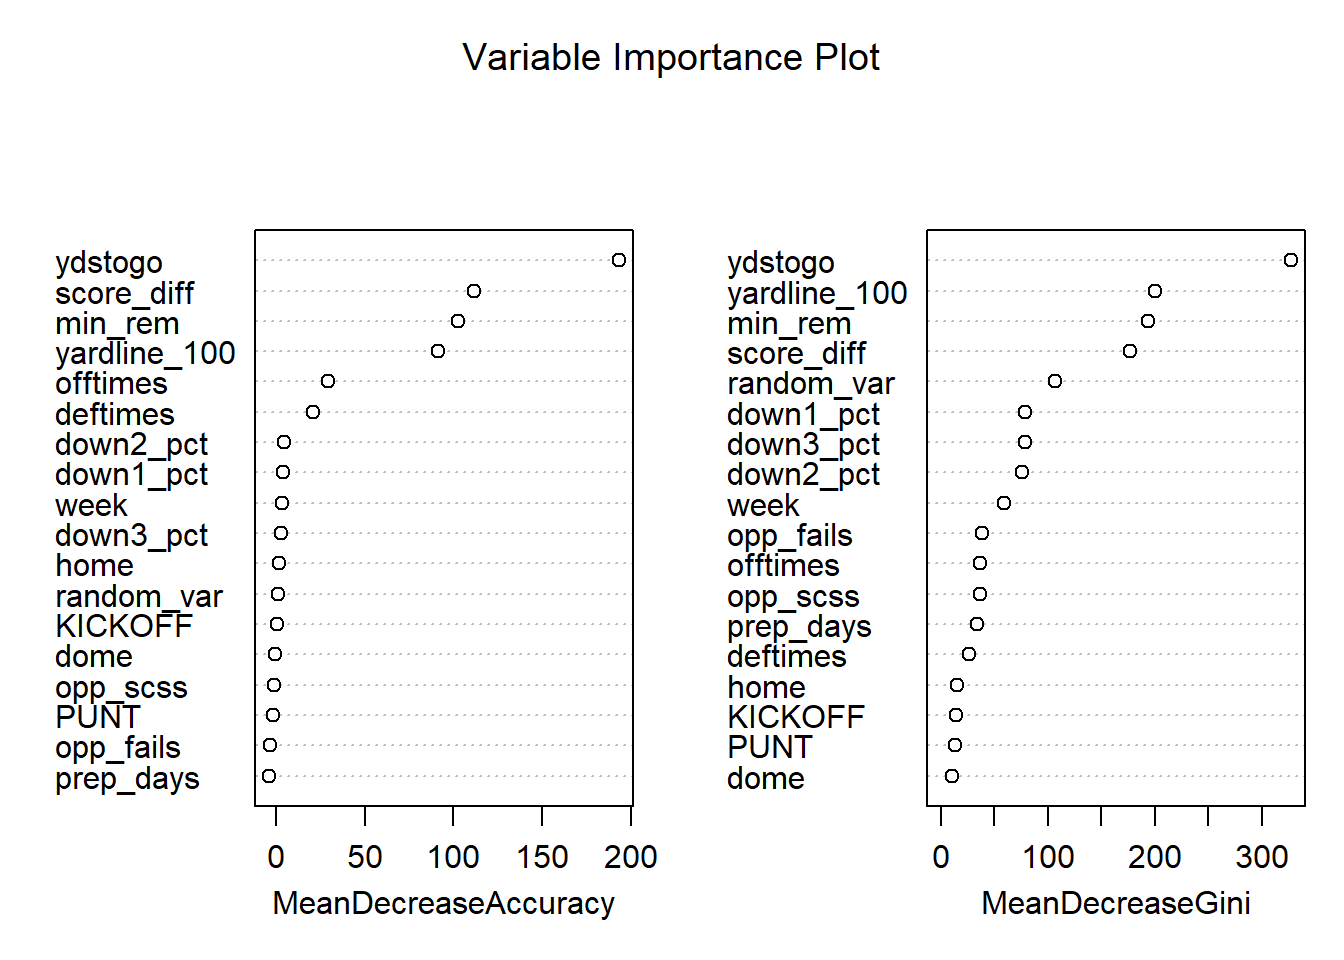
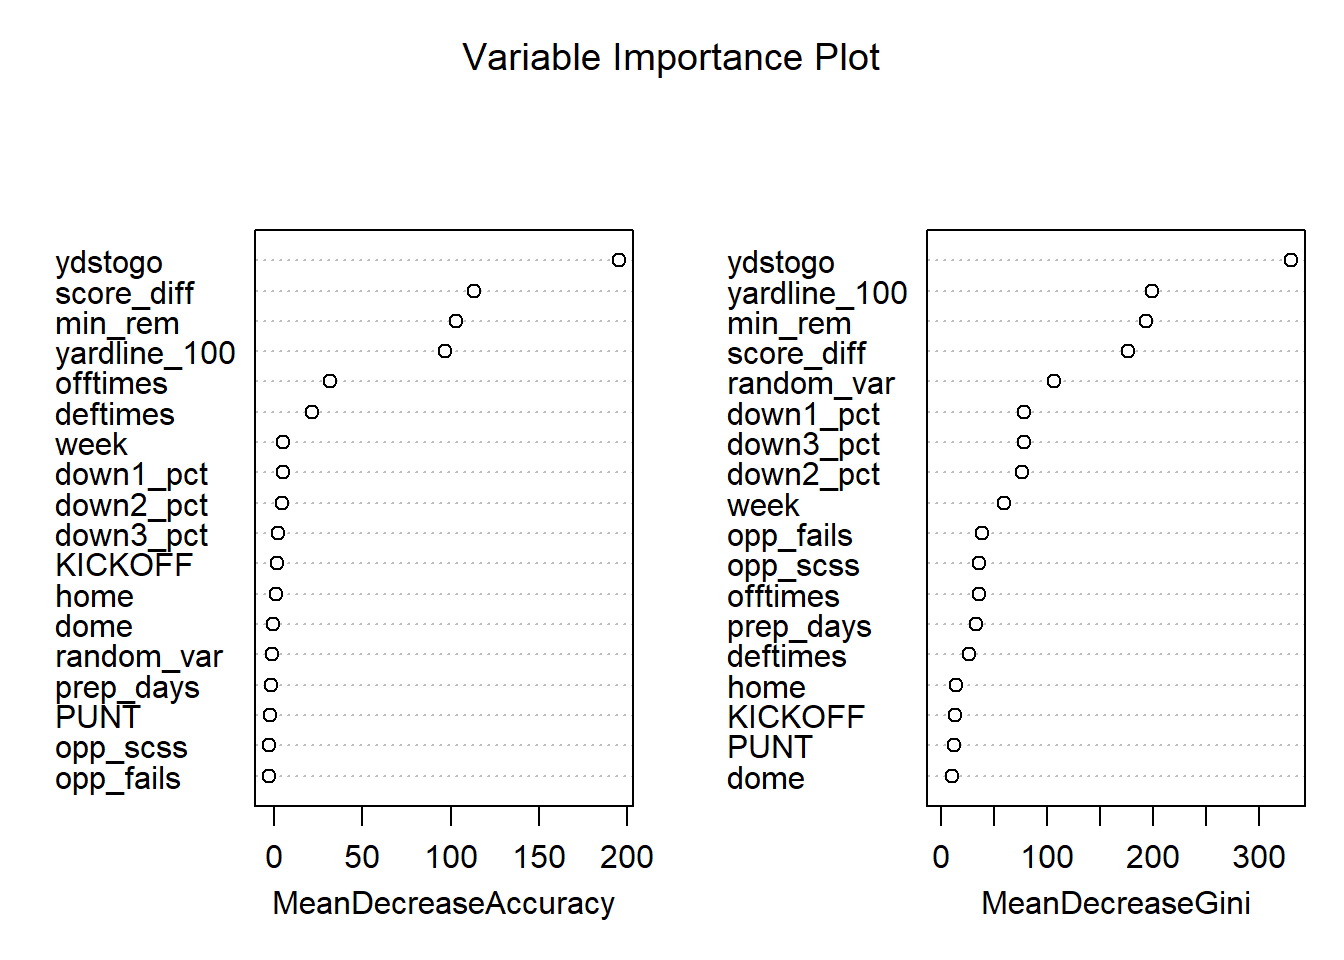
fixed citations

diff --git a/docs/index.html b/docs/index.html
@@ -357,24 +357,24 @@ popularity of their team. Teams are willing to invest time and money
 into finding different strategies that assist their organization. One
 such area that has received much attention is the idea of maximizing the
 expected win percentages of teams. This leads teams to look to
-strategies that may be outside of the culture norm.</p>
+strategies that may be outside of the cultural norm.</p>
 <p>For many years in the NFL there seemed to be a consistent standard
 that on 4th down your team will kick a field goal or punt the ball for
 better field position. The only exception being the dying moments in a
 game when teams are desperate. However data display tools have let us
 see an increase in the overall attempt percentage of teams on 4th down
-(Raymond, 2024). This is signalling a change in culture</p>
+(Raymond, 2024). This is signalling a change in culture.</p>
 <p>In the NFL there has been a increasing feeling that teams need to be
 more aggressive on 4th downs. We have seen teams adopt this strategy.
 Most famously is the Detroit lion’s mentality since the arrival of their
 current head coach Dan Campbell. The lions adopted a aggressive strategy
-to match their aggressive “biting off knee caps” mentality. While the
-lions have seen success for the first time in years they have also been
-criticized for their aggressive play calling. This was seen in the
-2023-24 playoff divisional round game in which the lions failed a 4th
-down attempt that was painted as unnecessary (Sporting News, 2024).
-After this failed 4th down attempt there seemed to be a shift in
-momentum and the lions lost the game.</p>
+to match their aggressive “biting off knee caps” mentality (Birkett,
+2023). While the lions have seen success for the first time in years
+they have also been criticized for their aggressive play calling. This
+was seen in the 2023-24 playoff divisional round game in which the lions
+failed a 4th down attempt that was painted as unnecessary (Sporting
+News, 2024). After this failed 4th down attempt there seemed to be a
+shift in momentum and the lions lost the game.</p>
 </div>
 <div id="research-problem" class="section level2">
 <h2>Research Problem</h2>
@@ -382,11 +382,11 @@ momentum and the lions lost the game.</p>
 right call?”. This question seems to be getting answered as “yes” by the
 current literature on this topic. However, we need to know if different
 teams should go for it or not go for it depending on their situation and
-team build. For example it could be argued that the lions should have
+team build. For example, it could be argued that the lions should have
 attempted the crucial 4th down in the 2023-24 playoff divisional round
-game. However if the panthers (which were a significantly worse team)
-where is that situation it could be argued that they should not have
-been as aggressive. This is because the panthers could have had a worse
+game. However, if the panthers (which were a significantly worse team)
+were is that situation it could be argued that they should not have been
+as aggressive. This is because the panthers could have had a worse
 chance of being able to convert on 4th down.</p>
 <p>On top of this we must be weary of any recommendation that is given
 to a head coach. The truth is that we are not on the field, in the
@@ -397,12 +397,12 @@ idea of being more practical and clear to coaches.</p>
 <div id="research-questions" class="section level2">
 <h2>Research Questions</h2>
 <p>This leads us to have a need to answer some key questions about 4th
-downs in the NFL. First is are there certain key predictable signals
-that can be used to decide if a given team should attempt a 4th down.
+downs in the NFL. First, is are there certain key predictable signals
+that can be used to decide if a given team should attempt a 4th down?
 Second, is what key factors or variables about players have predictive
-power in 4th down attempts. In other words are there players that are
+power in 4th down attempts? In other words are there players that are
 more important in 4th down situations when compared to other situations.
-Finally. do these key factors about players have a casual effect on the
+Finally, do these key factors about players have a casual effect on the
 outcome of 4th down attempts? Answering these questions will allow
 coaches to look for key signals in 4th down situations and to know which
 players to start on that 4th down if it is decided to attempt. This also
@@ -479,8 +479,10 @@ bias corrections with non-parametric models.</p>
 <ul>
 <li>Klein and Spady (1993)</li>
 <li>Das, Newey, and Vella (2003)</li>
-<li>Cook (2022)}</li>
+<li>Cook (2022)</li>
 </ul>
+<p>I currently am looking most specifically at semi-parametric
+models.</p>
 </div>
 <div id="research-gap" class="section level2">
 <h2>Research Gap</h2>
@@ -510,11 +512,12 @@ ranges from 2016 to 2023. The reason for this is that after 2016 the NFL
 started to put tracking chips in NFL player’s jerseys. This gives us
 information after 2016 of what players are on the field for each snap.
 As a note a weeks 16-18 in 2023 are missing gsis_ids of who was on the
-field and the data in 2016 is described as not as reliable.</p>
+field and the data in 2016 is described as not as reliable. A gsis_id is
+a unique identifier for a player and it crucial in our work.</p>
 <p>To create my data I have merged play by play data, participation
 data, roster data, and injury data. However, we may create different
 versions of our data depending on our models that we choose to use.</p>
-<p>First we have a third down data set. This data has the purpose of
+<p>First, we have a third down data set. This data has the purpose of
 allowing us to test our Heckman Variable’s validity in showing that a
 variable has no predictive power on a third down conversion. We then use
 this to bolster our argument that the variable in question has no
@@ -522,10 +525,10 @@ predictive power on a 4th down conversions. We also will have a fourth
 down “attempts” data set. This data set will be used to show that our
 Heckman Correction variable does have strong prediction power on the
 decision to attempt a 4th down or not. (this situation is more
-unbalanced). Finally the end goal is to be using data of purely 4th down
-attempts to predict the conversion of a play.</p>
-<p>While it is subject to change the 3rd down data set has 102,000+ rows
-and 1300+ columns. The 4th down attempts data set has 60,000+ rows and
+unbalanced). Finally, the end goal is to be using data of purely 4th
+down attempts to predict the conversion of a play.</p>
+<p>While it is subject to change the 3rd down data set has 56,000+ rows
+and 1300+ columns. The 4th down attempts data set has 33,000+ rows and
 1300+ columns.</p>
 </div>
 <div id="pro-football-focus-pff" class="section level2">
@@ -534,10 +537,10 @@ and 1300+ columns. The 4th down attempts data set has 60,000+ rows and
 Focus, (2024) from 2016 to 2023. This data is downloaded in the form of
 different positional reports. For example, we downloaded the receiving
 reports labeled as “Receiving Grades, Receiving Depth, Receiving
-Concept, and Receiving vs Scheme”. Each row in these reports would be
-how a player did in certain areas covered by that report that week. This
-however is useless to us as we needed to merge every report into each
-other.</p>
+Concept, and Receiving vs Scheme”. Each row in these reports contains
+information how a player did in certain areas covered by that report
+that week. This by itself is useless to us, as we need to merge every
+report into each other.</p>
 <p>We ended up with a data set that is 158,000+ rows and 1,500+ columns.
 Each column is a different stat that may or may not apply to a player
 (e.g. a receiving grade does not apply to a DE).</p>
@@ -547,28 +550,53 @@ player preformed in a specific week.</p>
 </div>
 <div id="merging" class="section level2">
 <h2>Merging</h2>
-<p>The most key aspect of this entire thesis is the merging of these two
-datasets. We can start with how in our pbp data we have the gsis_ids of
-every player that was on the field at the time of the play. A gisi_id is
-the main unique identifier for the player. So we need to take our PFF
-data and for each player merge it into the pbp data. The pbp data that
-we are merging it into has 9,000+ rows which each represent a 4th down
-attempt that a team intended to go for. This creates a data set with
-9,000+ rows and 25,000+ columns. The amount of columns is due to the
-specificness of the information that we have about players on the field.
-As we continue to merge this data and add or drop different types of
-variables this number of columns will change. I believe it will increase
-as we find new information. As our project proceeds we will narrow down
-our specificness as needed.</p>
-<p>A problem we are encountering is that the PFF players do not have a
+<p>A problem we encountered is that the PFF players do not have a
 gsis_id. They instead have a pff_id. Unfortunately not all players with
 a gsis_id have a available pff_id. On top of that the names between the
 data sets do not always match up. Currently I am working on different
-methods of matching these players between datasets. There also are
-multiple players with the same name. This match I currently believe can
-be done off of parts of names, positions, and teams. For the players
-that have a pff_id assigned to their gsis_id this matching process is
-not needed.</p>
+methods of matching these players between datasets. This match I
+currently am doing in a multi-step process off of standardized names,
+parts of names, positions, years played, and teams. For the players that
+have a pff_id assigned to their gsis_id this matching process is not
+needed. As a part of our contribution to this field of study I will be
+providing the dataset of 4900+ players with matched PFF and GSIS IDs. If
+you desire the code for this process to extend it to other years or play
+types please reach out to me via email.</p>
+<p>The most key aspect of this entire thesis is the merging of the PFF
+and PBP datasets. We can start with how in our PBP data we have the
+gsis_ids of every player that was on the field at the time of the play.
+A gisi_id is the main unique identifier for the player. So we need to
+take our PFF data and for each player merge it into the PBP data.</p>
+<p>We have multiple types of PBP datasets that we are merging PFF data
+into. First we have a 3rd down data set that is used to bolster our
+argument that are exogenous variable that is used for correction of self
+selection sample bias has no effect on 4th down completions.</p>
+<p>Our 4th down data set on the other hand has multiple uses. First, it
+will be used to show that our exogenous variable has a effect on the
+decision to attempt a 4th down. In this case the dependent variable is
+the decision to attempt a 4th down. Second, the 4th down data will be
+filtered down to situations where a team “went for it” with a run or a
+pass play. In this case the dependent variable is the completion of a
+4th down.</p>
+<p>I currently am hesitant to be stating the exact numbers of columns
+and rows within this data as these numbers will change as we engineer
+new features, generalize our existing features or filter our data more.
+However both the 3rd down and 4th down data currently have over 45,000
+columns without any forms of generalization. Our 3rd down data set
+currently consists of 56,000+ rows and our 4th down data set consists of
+33,000+ rows. However when our 4th down set is filtered to only include
+“went for it” plays we get 400-900 observations a year.</p>
+<p>Here are some general areas that the data captures:</p>
+<ul>
+<li>Game situation (down, distance, score, time remaining,
+location)</li>
+<li>Player specifics (“rushing years/passing yards/blocking grades” in
+the past seasons)</li>
+<li>Physical player traits (height, weight, age, etc.)</li>
+<li>Player injury history (e.g. days since last injruy)</li>
+<li>Team injury history (e.g. specific type of injuries in last
+week/year)</li>
+</ul>
 </div>
 </div>
 <div id="methodology" class="section level1">
@@ -664,7 +692,7 @@ semester (names matching).</li>
 <h1>Begining Analysis</h1>
 <pre class="r"><code>model_3rd3 &lt;- read_csv(&quot;model_3rd3.csv&quot;)</code></pre>
 <pre><code>## Rows: 7022 Columns: 20
-## ── Column specification ───────────────────
+## ── Column specification ────────────────────────────────────────────────────────
 ## Delimiter: &quot;,&quot;
 ## dbl (20): week, ydstogo, yardline_100, posteam_timeouts_remaining, defteam_t...
 ## 
@@ -672,7 +700,7 @@ semester (names matching).</li>
 ## ℹ Specify the column types or set `show_col_types = FALSE` to quiet this message.</code></pre>
 <pre class="r"><code>model_4th3 &lt;- read_csv(&quot;model_4th3.csv&quot;)</code></pre>
 <pre><code>## Rows: 4226 Columns: 19
-## ── Column specification ───────────────────
+## ── Column specification ────────────────────────────────────────────────────────
 ## Delimiter: &quot;,&quot;
 ## dbl (19): week, attempt, ydstogo, yardline_100, minutes_remaining, posteam_t...
 ## 
@@ -683,7 +711,8 @@ semester (names matching).</li>
 <ul>
 <li>For display purposes most of the code that produces the data and
 plots are not shown. However, the code will be made available via my
-personal github page ().</li>
+personal github page (<a href="https://github.com/SimonRaymond2003"
+class="uri">https://github.com/SimonRaymond2003</a>).</li>
 <li>The OLS model takes no account for Heteroskedasticity or
 Autocorrelation.</li>
 <li>The current data ignores how good the teams are (offensive and
@@ -1004,27 +1033,27 @@ model predicts attempts and is run with a ntree = 1500. We are reporting
 Out Of Bag results.</p>
 <pre class="r"><code># Print results
 print(importance_df)</code></pre>
-<pre><code>##        Variable           0           1 MeanDecreaseAccuracy MeanDecreaseGini
-## 1       ydstogo 125.4269824 183.2818606          193.5432330        327.60793
-## 2    score_diff  60.4299164 110.7947346          111.5743563        177.02412
-## 3       min_rem  60.1566875 100.0367519          102.8539127        193.93256
-## 4  yardline_100  45.1373398 105.2612785           91.4219768        200.11429
-## 5      offtimes  19.3535499  23.3109939           29.4424194         36.30884
-## 6      deftimes  20.5412507   4.2933397           20.9964538         26.19223
-## 7     down2_pct   1.7085776   5.8042999            4.6454135         75.50654
-## 8     down1_pct  -0.4045042   7.0423011            3.7189447         79.04593
-## 9          week  -1.3199223   8.1332725            3.5353990         59.00471
-## 10    down3_pct  -1.9806339   7.6795394            2.6598976         78.85979
-## 11         home  -2.4771793   5.6519962            1.3385270         14.63138
-## 12   random_var   0.8658669   0.9400077            1.2681888        106.79470
-## 13      KICKOFF   1.7673417  -1.9325312            0.4864511         14.01850
-## 14         dome  -2.1599300   1.8442765           -0.7063457         10.24486
-## 15     opp_scss  -3.6387216   2.5865796           -1.4687084         36.30426
-## 16         PUNT  -4.3943745   3.0799317           -2.0010136         12.81025
-## 17    opp_fails  -7.7064777   4.9857182           -3.7090732         38.59908
-## 18    prep_days  -5.2225004   0.6178269           -4.0869803         33.84337</code></pre>
+<pre><code>##        Variable          0           1 MeanDecreaseAccuracy MeanDecreaseGini
+## 1       ydstogo 126.002710 185.8722726          195.2746981        330.65192
+## 2    score_diff  62.623935 108.6540273          113.2869194        176.57889
+## 3       min_rem  59.775285 101.6495425          102.9746315        194.10616
+## 4  yardline_100  47.413516 106.6503391           96.9275630        199.55927
+## 5      offtimes  20.350509  25.9233860           31.6439314         35.75933
+## 6      deftimes  21.810413   3.1921930           21.4321912         26.21388
+## 7          week   0.184814   9.0178930            5.0208110         59.58649
+## 8     down1_pct   1.040355   7.1406478            4.9573135         78.50463
+## 9     down2_pct   2.341873   4.8599441            4.6730988         76.33280
+## 10    down3_pct  -2.834120   8.4329170            2.3459534         78.25188
+## 11      KICKOFF   3.322896  -2.1770402            1.6336814         13.59309
+## 12         home  -3.190402   6.2082496            1.1166262         14.37036
+## 13         dome  -2.998111   3.3339568           -0.4614668         10.29600
+## 14   random_var  -1.503282  -0.1644719           -1.3080810        106.82509
+## 15    prep_days  -4.433239   3.4822121           -1.6567989         33.23136
+## 16         PUNT  -2.835734  -0.3526549           -2.6332261         12.66409
+## 17     opp_scss  -5.791980   3.3702832           -2.9676177         36.36877
+## 18    opp_fails  -5.976563   3.5040960           -2.9795022         38.79649</code></pre>
 <pre class="r"><code>print(paste(&quot;OOB AUC:&quot;, round(oob_auc, 3)))</code></pre>
-<pre><code>## [1] &quot;OOB AUC: 0.882&quot;</code></pre>
+<pre><code>## [1] &quot;OOB AUC: 0.881&quot;</code></pre>
 <pre class="r"><code># Plot variable importance
 varImpPlot(rf4,
            sort = TRUE,
@@ -1055,27 +1084,27 @@ reporting Out Of Bag results.</p>
 <pre class="r"><code># Print results
 print(importance_df)</code></pre>
 <pre><code>##        Variable           0           1 MeanDecreaseAccuracy MeanDecreaseGini
-## 1       ydstogo 83.26665400 112.1676465          136.9220685        450.02512
-## 2          rush  6.79767077  28.9799743           26.9681142         62.40020
-## 3  yardline_100 15.68403825  -5.4463463            9.1741667        317.55940
-## 4       min_rem  7.24924977  -0.9983970            5.1106713        346.79810
-## 5     down3_pct  5.37955294  -2.8463265            2.4025145        245.61015
-## 6      deftimes  3.94955487  -1.4916276            2.1993010         61.94590
-## 7       KICKOFF -2.14623883   4.3024908            1.1593640         43.15927
-## 8      opp_scss -3.66393066   5.2077364            0.6420642        113.77046
-## 9     down2_pct -1.14526603   2.2859712            0.5076803        239.48743
-## 10   score_diff -0.06393452   0.5884626            0.3698348        224.95638
-## 11   random_var  0.92795191  -0.8957709            0.1288689        348.71014
-## 12    opp_fails -1.47268877   1.5292666           -0.1133539        122.17104
-## 13         week  1.49873140  -2.0823813           -0.1436457        183.01867
-## 14         PUNT -2.63984251   1.9757790           -0.7685443         41.87193
-## 15         dome -1.26794601  -0.4688593           -1.2560488         31.98814
-## 16         home -0.97968398  -1.2480465           -1.6523660         42.09237
-## 17    down1_pct -4.12220699   1.7642212           -2.2109387        241.67618
-## 18    prep_days -1.76557363  -1.7704162           -2.5582438        107.70782
-## 19     offtimes -3.79308213  -3.3649059           -5.1973632         59.38586</code></pre>
+## 1       ydstogo 83.05588524 113.3980429          135.4501676        450.67840
+## 2          rush  4.47797643  30.9748465           26.9545298         61.24723
+## 3  yardline_100 13.63186583  -5.5596880            7.0536067        317.15580
+## 4       min_rem  3.54461863   0.9815335            3.4842691        347.34838
+## 5     down3_pct  4.31802415  -3.2429980            1.2890553        244.78464
+## 6      opp_scss -1.48554389   3.5069321            1.0835659        114.50682
+## 7      deftimes  2.39263831  -2.1641496            0.5150940         61.97243
+## 8    score_diff -0.27079796   0.7225512            0.2600402        225.60373
+## 9     down2_pct -1.79179734   2.4421374            0.2068352        240.72539
+## 10      KICKOFF -3.61701302   4.1027136           -0.1029305         42.81354
+## 11    prep_days -0.06818342  -0.3356903           -0.2627515        108.04845
+## 12         week  0.22143290  -1.0075717           -0.4993756        183.80205
+## 13         PUNT -1.84481468   1.1133976           -0.6286028         41.50121
+## 14    opp_fails -2.82654634   0.2479793           -2.1148818        122.79910
+## 15         dome -2.67653420  -0.4402697           -2.4471017         32.10255
+## 16   random_var -0.15735623  -3.6936104           -2.4807033        347.91162
+## 17         home -1.80997483  -2.0503768           -2.6621262         42.00402
+## 18    down1_pct -4.88187596   0.8716234           -3.3666895        241.30277
+## 19     offtimes -4.05956285  -2.0547905           -4.6976606         59.08749</code></pre>
 <pre class="r"><code>print(paste(&quot;OOB AUC:&quot;, round(oob_auc, 3)))</code></pre>
-<pre><code>## [1] &quot;OOB AUC: 0.669&quot;</code></pre>
+<pre><code>## [1] &quot;OOB AUC: 0.668&quot;</code></pre>
 <pre class="r"><code># Plot variable importance
 varImpPlot(rf3,
            sort = TRUE,
@@ -1145,9 +1174,9 @@ abline(h = mean(auc) + 1.96 * sd(auc), col = &quot;green&quot;, lwd = 2, lty = 3
 <p><img src="index_files/figure-html/unnamed-chunk-29-1.png" width="672" /></p>
 <pre class="r"><code># Print summary statistics
 cat(&quot;Mean AUC:&quot;, mean(auc), &quot;\n&quot;)</code></pre>
-<pre><code>## Mean AUC: 0.7948716</code></pre>
+<pre><code>## Mean AUC: 0.7951987</code></pre>
 <pre class="r"><code>cat(&quot;95% CI: [&quot;, mean(auc) - 1.96 * sd(auc), &quot;,&quot;, mean(auc) + 1.96 * sd(auc), &quot;]\n&quot;)</code></pre>
-<pre><code>## 95% CI: [ 0.7735098 , 0.8162334 ]</code></pre>
+<pre><code>## 95% CI: [ 0.774153 , 0.8162443 ]</code></pre>
 <p>We see a significantly worse performance then with a random forest
 model.</p>
 </div>
@@ -1226,6 +1255,10 @@ economic impact of successful National Football League franchises.
 <em>Economic Inquiry</em>, 48(1), 39–50. <a
 href="https://doi.org/10.1111/j.1465-7295.2008.00124.x"
 class="uri">https://doi.org/10.1111/j.1465-7295.2008.00124.x</a></p>
+<p>Birkett, D. (2024, January 21). On this date: Memorable kneecap
+speech. Sports Illustrated. Retrieved from <a
+href="https://www.si.com/nfl/lions/news/on-this-date-memorable-kneecap-speech"
+class="uri">https://www.si.com/nfl/lions/news/on-this-date-memorable-kneecap-speech</a></p>
 </div>
 
 
